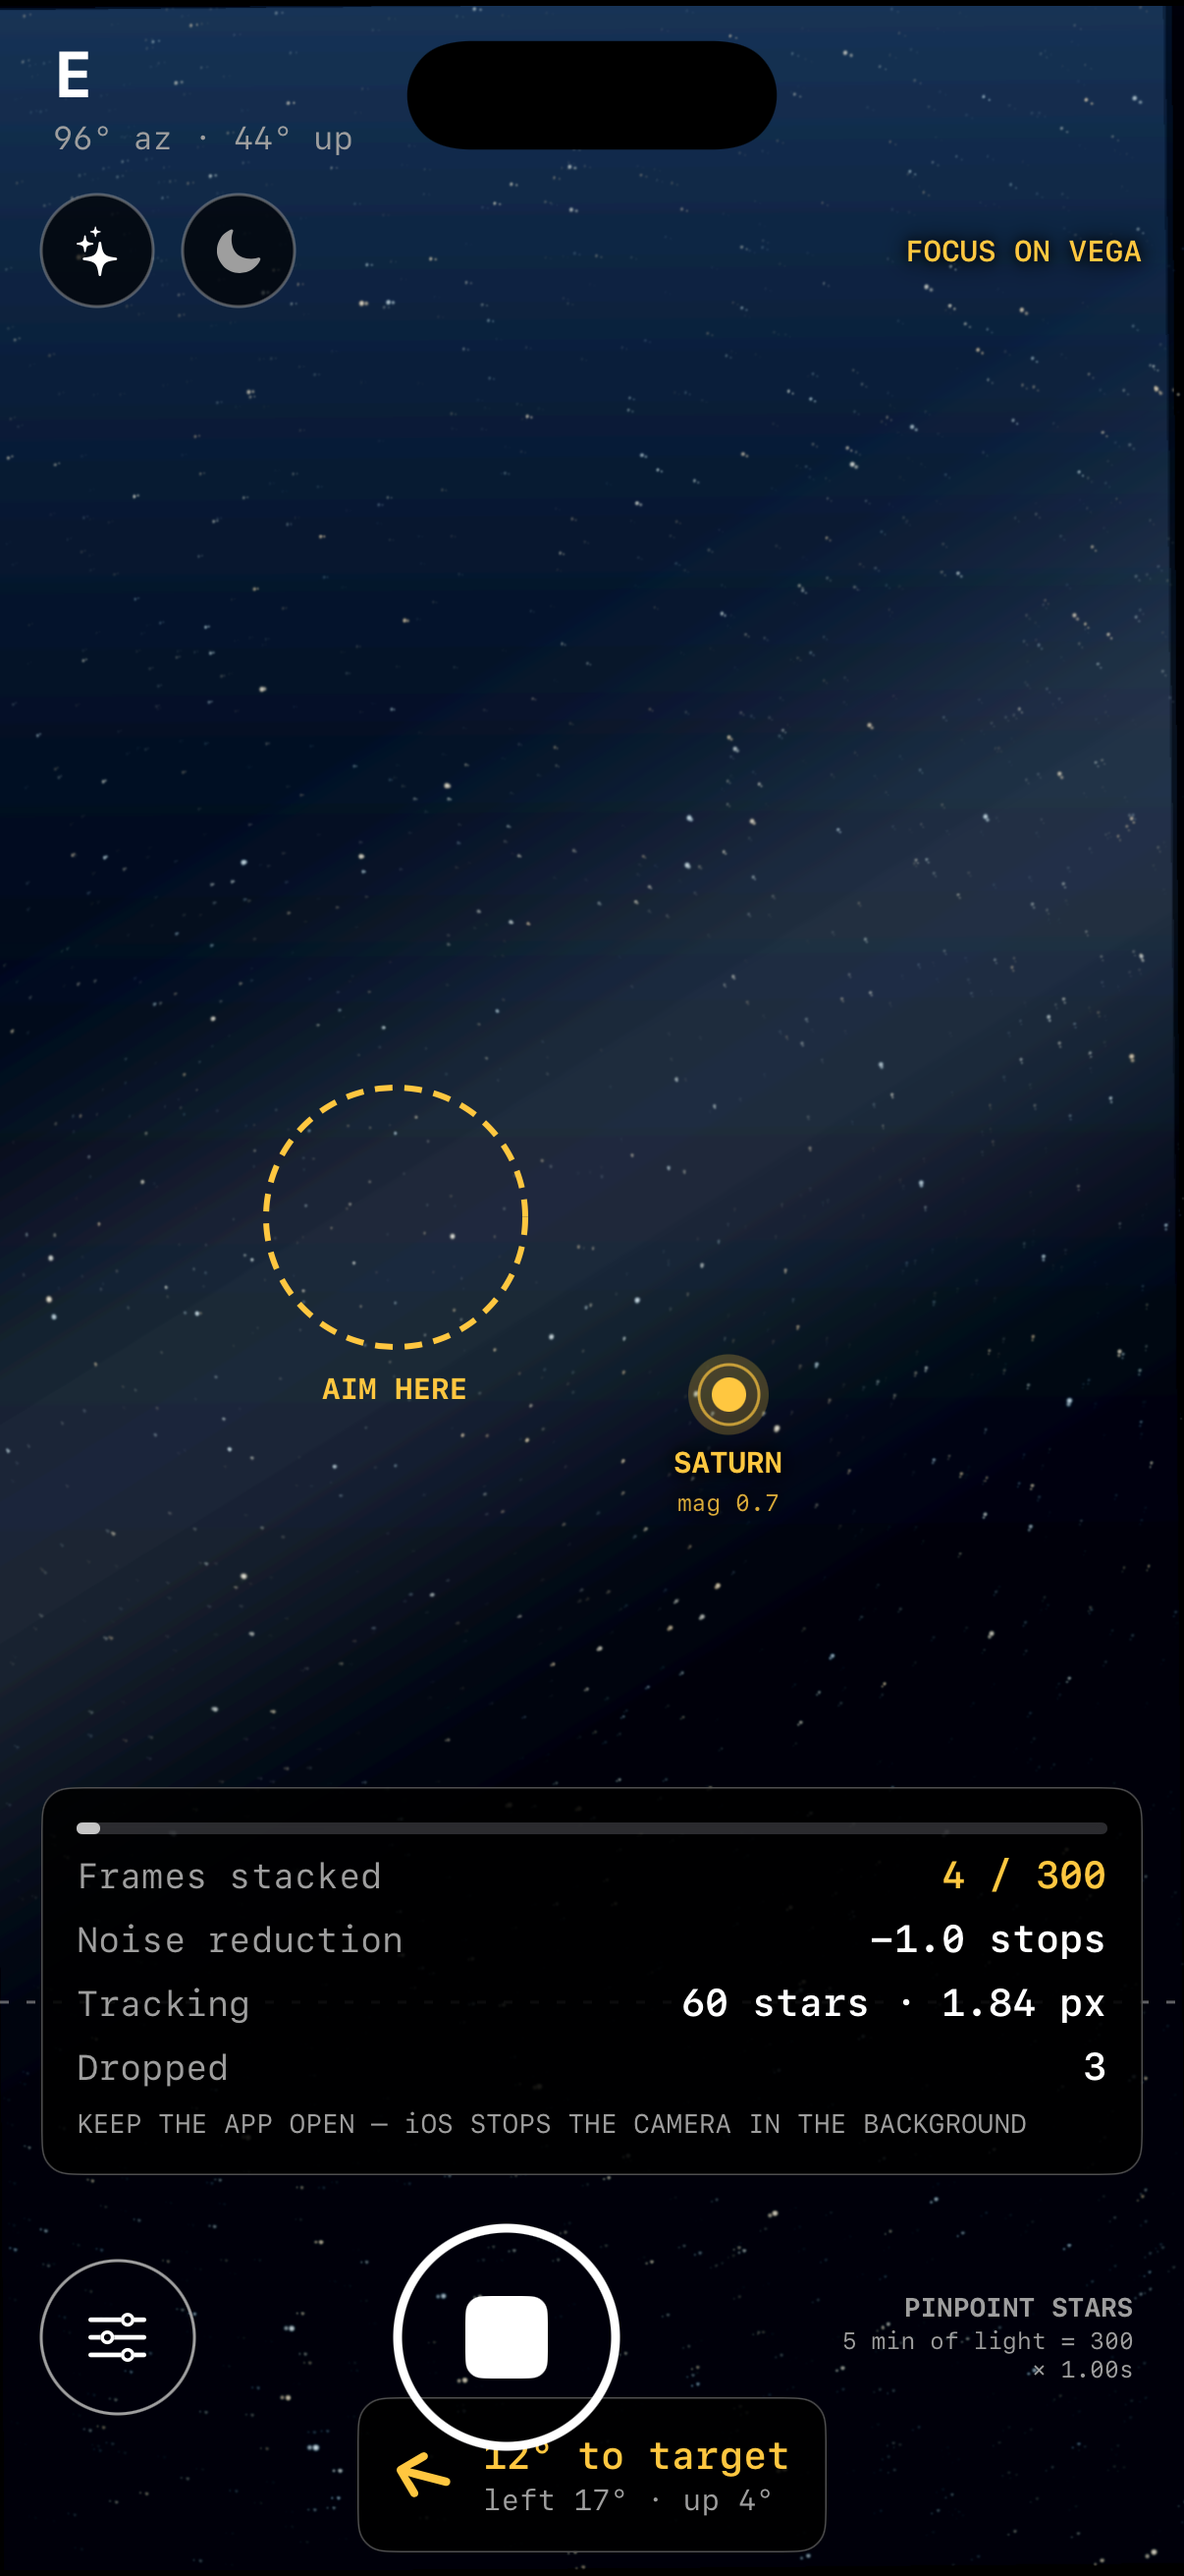
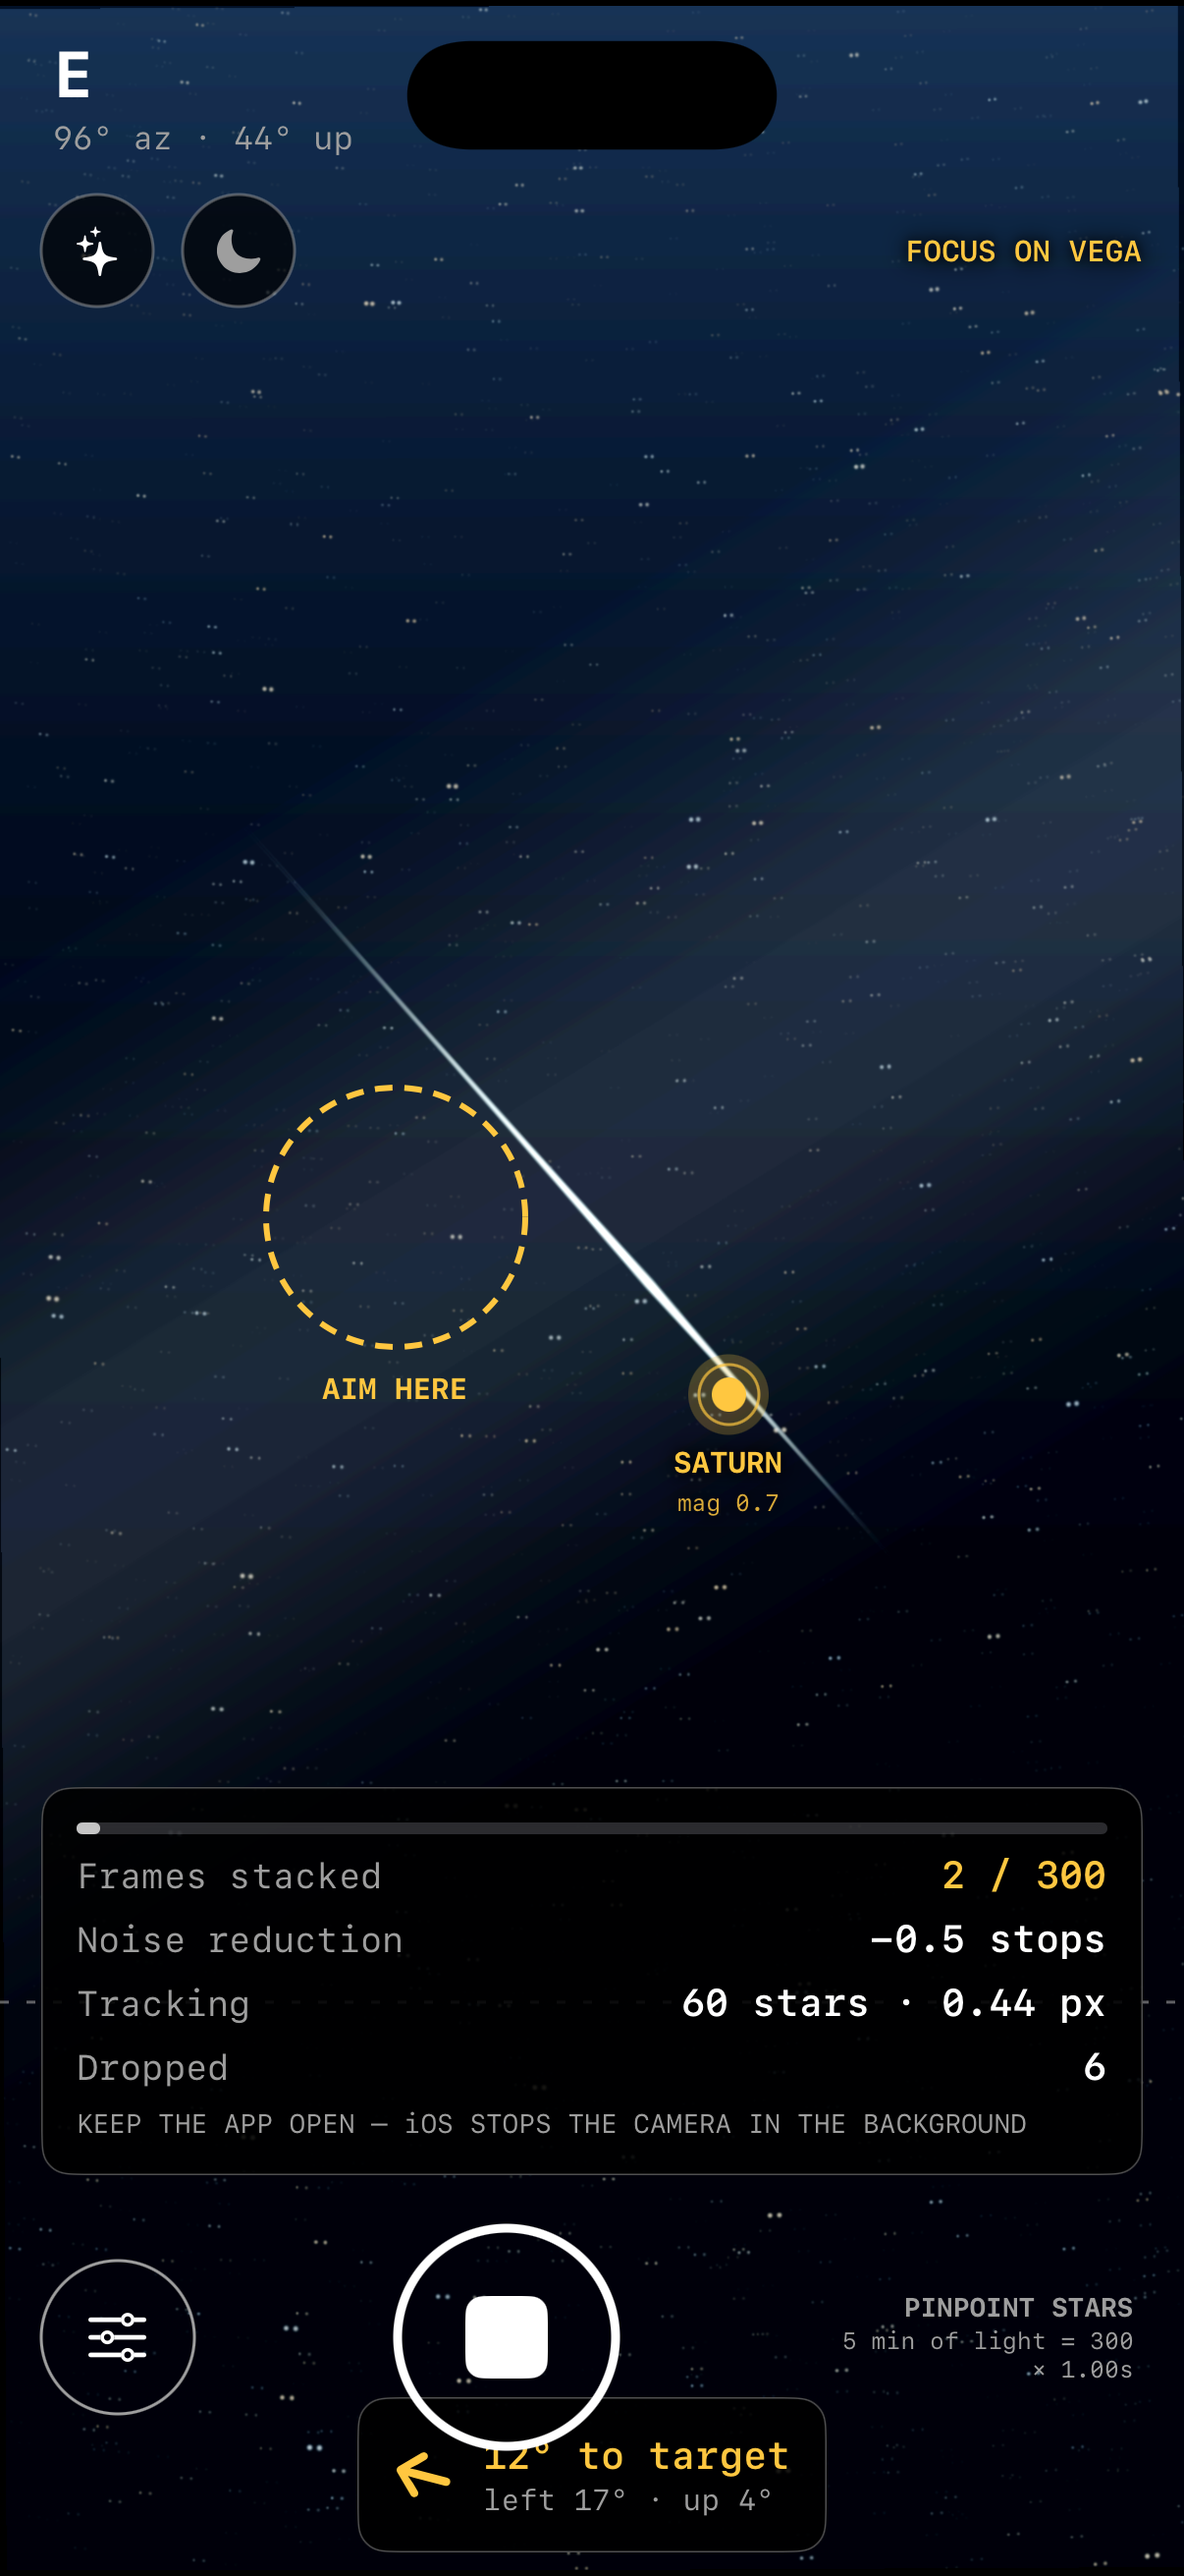
Add a shooting star to the synthesised sky
Drawn into the sky, not onto the screenshot — so the stack accumulates it the
way it would a real one, and the detector finds it by frame differencing like
any other transient. What the screenshot shows is a genuine capture.

A meteor rather than a comet: this is what the app is built to catch, and
during the Perseids a user sees dozens an hour. Comets come every few years.

Brightest two thirds along and tapering to nothing at both ends, thicker where
it burns hardest — a straight line of constant width reads as drawn.

diff --git a/Sources/Starlapse/Services/StubSkySource.swift b/Sources/Starlapse/Services/StubSkySource.swift
@@ -13,11 +13,17 @@ import simd
 ///
 /// It stays inside `#if DEBUG` and never ships.
 ///
-/// What it deliberately does **not** do is invent results the app cannot produce. The stars
-/// rotate about the celestial pole at the true sidereal rate, so alignment has something
-/// real to solve and the trails curve the way they actually would. There is no comet and no
-/// meteor: those are rare, and a screenshot promising one would be promising something a
-/// buyer will not get.
+/// The stars rotate about the celestial pole at the true sidereal rate, so alignment has
+/// something real to solve and the trails curve the way they actually would.
+///
+/// A meteor crosses the frame on one frame in every cycle — because that is what the app is
+/// built to catch, and during the Perseids a real user sees dozens an hour. It is drawn into
+/// the *sky*, not onto the screenshot, so the detector finds it the same way it finds a real
+/// one: frame differencing, connected regions, streak shape. What the screenshot shows is a
+/// genuine detection.
+///
+/// No comet, though. Those come every few years, and a screenshot promising one would be
+/// promising a buyer something they will not get.
 final class StubSkySource: @unchecked Sendable {
 
     private let width: Int
@@ -34,6 +40,12 @@ final class StubSkySource: @unchecked Sendable {
     }
 
     private let stars: [Star]
+
+    /// Frames on which a meteor crosses. Frequent, because a screenshot has to catch one —
+    /// and in a stacked shot it stays in the result anyway, which is exactly what happens
+    /// on a real Perseid night.
+    private let meteorFrame = 2
+    private let meteorPeriod = 4
     /// Where the sky turns about — off-frame, as it is for anyone not shooting the pole.
     private let poleX: Double
     private let poleY: Double
@@ -106,6 +118,63 @@ final class StubSkySource: @unchecked Sendable {
         drawBackground(into: pixels, bytesPerRow: bytesPerRow)
         drawMilkyWay(into: pixels, bytesPerRow: bytesPerRow)
         drawStars(into: pixels, bytesPerRow: bytesPerRow, angle: angle)
+
+        if (frameIndex - 1) % meteorPeriod == meteorFrame {
+            drawMeteor(into: pixels, bytesPerRow: bytesPerRow)
+        }
+    }
+
+    /// A Perseid: a bright streak, brightest two-thirds along, gone in one frame.
+    ///
+    /// Drawn radiating away from the shower's radiant, which is what real ones do — and
+    /// the reason the app tells you to aim 40° off it rather than at it.
+    private func drawMeteor(into pixels: UnsafeMutablePointer<UInt8>, bytesPerRow: Int) {
+        let startX = Double(width) * 0.17
+        let startY = Double(height) * 0.30
+        let endX = Double(width) * 0.78
+        let endY = Double(height) * 0.62
+        let steps = 900
+        let thickness = 2.1
+
+        for step in 0...steps {
+            let t = Double(step) / Double(steps)
+            let px = startX + (endX - startX) * t
+            let py = startY + (endY - startY) * t
+
+            // Fades in, peaks around two thirds, then cuts out — the way one burns up.
+            let envelope: Double
+            if t < 0.62 {
+                envelope = pow(t / 0.62, 2.4)
+            } else {
+                envelope = pow(max(0, 1 - (t - 0.62) / 0.38), 2.6)
+            }
+            let brightness = 250.0 * envelope
+            guard brightness > 1 else { continue }
+
+            // Thicker where it burns brightest, hair-thin at the ends — that taper is what
+            // a straight line of constant width never looks like.
+            let localThickness = thickness * (0.45 + 0.55 * envelope)
+            let radius = Int((localThickness * 3).rounded(.up))
+            for offsetY in -radius...radius {
+                for offsetX in -radius...radius {
+                    let x = Int(px) + offsetX
+                    let y = Int(py) + offsetY
+                    guard x >= 0, x < width, y >= 0, y < height else { continue }
+
+                    let dx = Double(x) - px
+                    let dy = Double(y) - py
+                    let falloff = exp(-(dx * dx + dy * dy) / (2 * localThickness * localThickness))
+                    let value = brightness * falloff
+                    guard value > 0.6 else { continue }
+
+                    let offset = y * bytesPerRow + x * 4
+                    // Perseids run blue-green from their entry speed — 59 km/s.
+                    pixels[offset] = UInt8(min(255, Double(pixels[offset]) + value))
+                    pixels[offset + 1] = UInt8(min(255, Double(pixels[offset + 1]) + value * 0.97))
+                    pixels[offset + 2] = UInt8(min(255, Double(pixels[offset + 2]) + value * 0.82))
+                }
+            }
+        }
     }
 
     /// Light pollution gradient from the horizon, the way any sky within reach of a town
